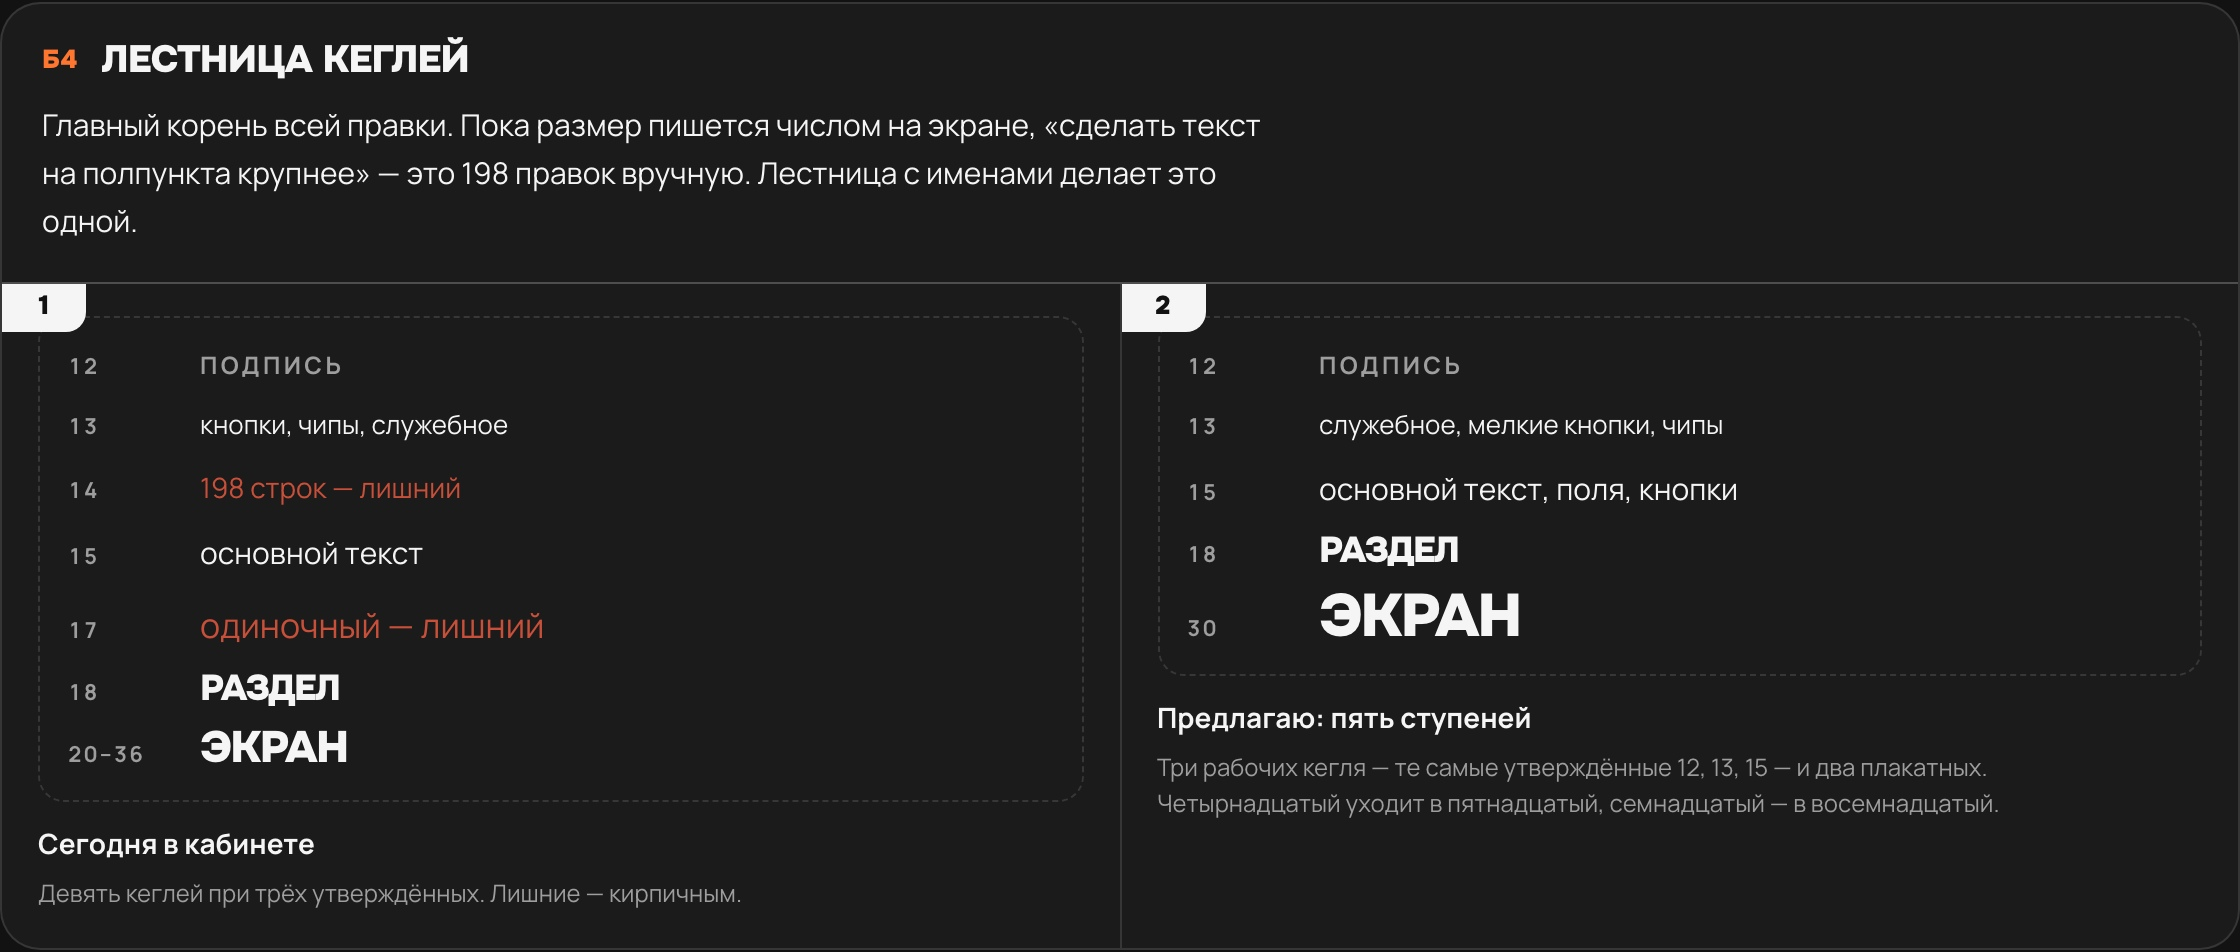
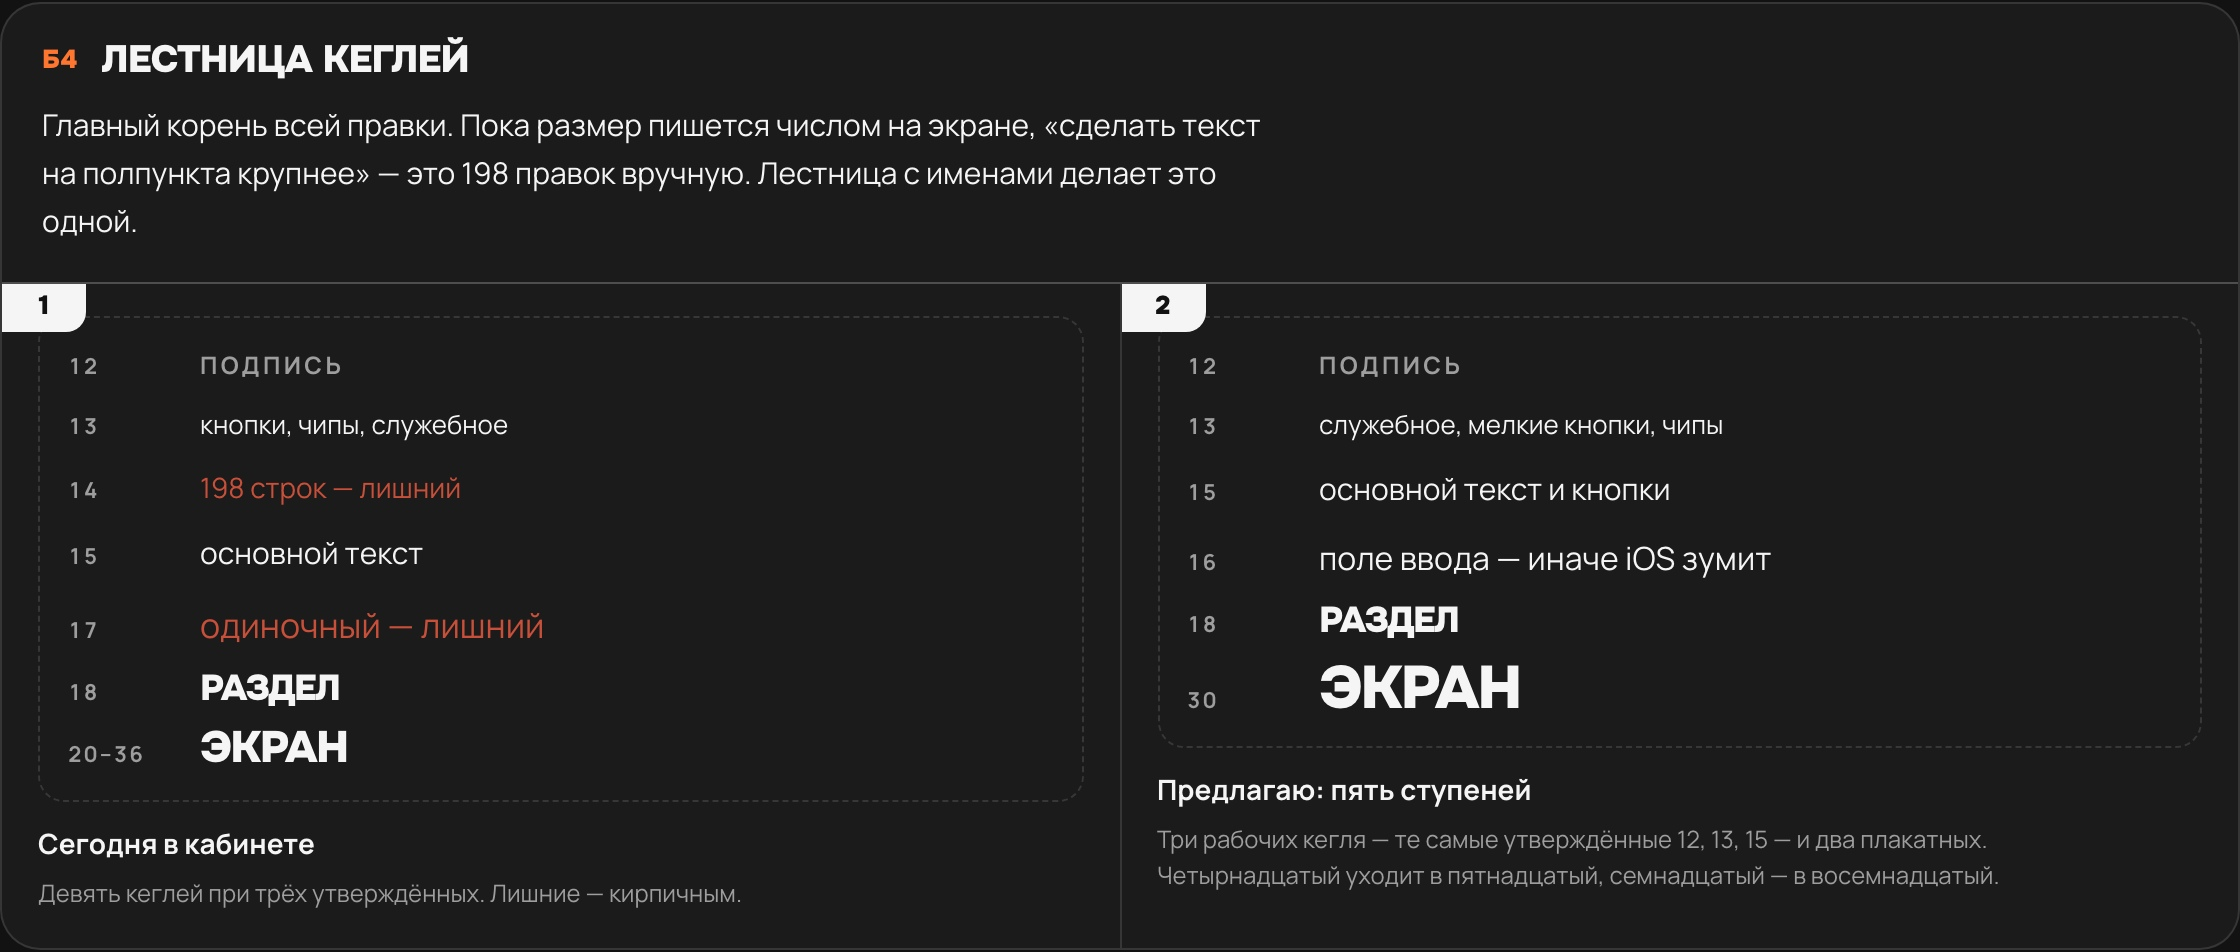
Решение Б4: основной текст 15, поле ввода 16
Артём выбрал 15, посмотрев на разбор чужих практик и замер наших шрифтов.
Лестница рабочей среды: 12 подпись, 13 служебное и мелкие кнопки, 15 текст
и кнопки, 18 раздел, 30 плакат.

Поле ввода вынесено отдельной ступенью в 16, и это не вкус: iOS Safari
зумит страницу при наводке на поле с кеглем меньше 16 и обратно не
отзумливает. Условие «на телефоне другое» не заводим — лишняя развилка
дороже пикселя на компьютере.

Долг: в календаре 32 поля с кеглем явно меньше 16 и ещё 65 наследуют
от родителя, а в кабинете это 14-15. На живом айфоне не проверено.

Замер: у Manrope отношение x-height к кеглю 0,540 против 0,526 у
системного — крупнее на 3-4 %, так что «шрифт и так большой» не аргумент.
Переход 14 на 15 расширяет строку на 7 %.

diff --git a/review/index.html b/review/index.html
@@ -811,7 +811,8 @@
           <div class="лестница">
             <div><b>12</b><span class="work-label">подпись</span></div>
             <div><b>13</b><span style="font-size:13px">служебное, мелкие кнопки, чипы</span></div>
-            <div><b>15</b><span style="font-size:15px">основной текст, поля, кнопки</span></div>
+            <div><b>15</b><span style="font-size:15px">основной текст и кнопки</span></div>
+            <div><b>16</b><span style="font-size:16px">поле ввода — иначе iOS зумит</span></div>
             <div><b>18</b><span class="work-title" style="font-size:18px">раздел</span></div>
             <div><b>30</b><span class="work-title" style="font-size:30px">экран</span></div>
           </div>

diff --git a/review/РЕШЕНИЯ.md b/review/РЕШЕНИЯ.md
@@ -85,3 +85,45 @@ Lab собирает токены из файлов продукта, а не к
 **Чего это стоит.** Четыре экрана переезжают со строчки 18 на шапку — это не
 переименование, а новый общий приём: липкая шапка с возвратом. Держать его
 придётся во всех служебных разделах, иначе получится третье решение.
+
+---
+
+## Б4 · Лестница кеглей — 01.11.2026
+
+**Решено: основной текст кабинета — 15.** Артём выбрал его, посмотрев на
+разбор чужих практик и на замер наших шрифтов.
+
+**Лестница рабочей среды, пять ступеней плюс одна техническая:**
+
+| кегль | что им набрано |
+| --- | --- |
+| 12 | подпись-ярлык (`.work-label`) |
+| 13 | служебный текст, мелкие кнопки `--soft` и `--quiet`, чипы |
+| 15 | основной текст и кнопки |
+| **16** | **поле ввода — на всех ширинах** |
+| 18 | заголовок раздела |
+| 30 | заголовок экрана (плакат) |
+
+Четырнадцатый уходит в пятнадцатый, семнадцатый — в восемнадцатый.
+
+**Почему поле ввода 16, а не 15.** iOS Safari зумит страницу, когда наводишься
+на поле с вычисленным кеглем меньше 16, и обратно не отзумливает. Это
+поведение браузера, не вкус. Условие «на телефоне другое» заводить не стали:
+лишняя развилка в лестнице дороже одного пикселя на компьютере.
+
+**Долг, найденный при разборе.** В календаре 32 поля с кеглем явно меньше 16
+(12 на 15, 12 на `text-sm`, 6 на 14, 2 на 13) и ещё 65 наследуют от родителя,
+а в кабинете это те же 14–15. Значит, на айфоне экран дёргается почти на
+каждом поле. На живом устройстве не проверено — проверить одной минутой.
+
+**Чем это защищается.** Правилом в `ui-guard`: поле ввода с кеглем меньше 16 —
+запрет; кегль числом вне лестницы — запрет. Иначе через месяц здесь снова
+будет девять кеглей.
+
+**На чём основано.** WCAG минимального кегля не задаёт — 1.4.4 требует
+увеличения до 200 % без потери содержимого. Практика делится надвое: плотный
+рабочий интерфейс 13–14, чтение 16–18; Carbon держит 14 для интерфейса и 16
+для длинного текста. Замер наших шрифтов: у Manrope отношение x-height к
+кеглю 0,540 против 0,526 у системного и 0,519 у Arial — крупнее на 3–4 %, то
+есть «у нас шрифт и так большой» не аргумент. Переход с 14 на 15 расширяет
+строку на 7 %: в строке таблицы это одно слово.
